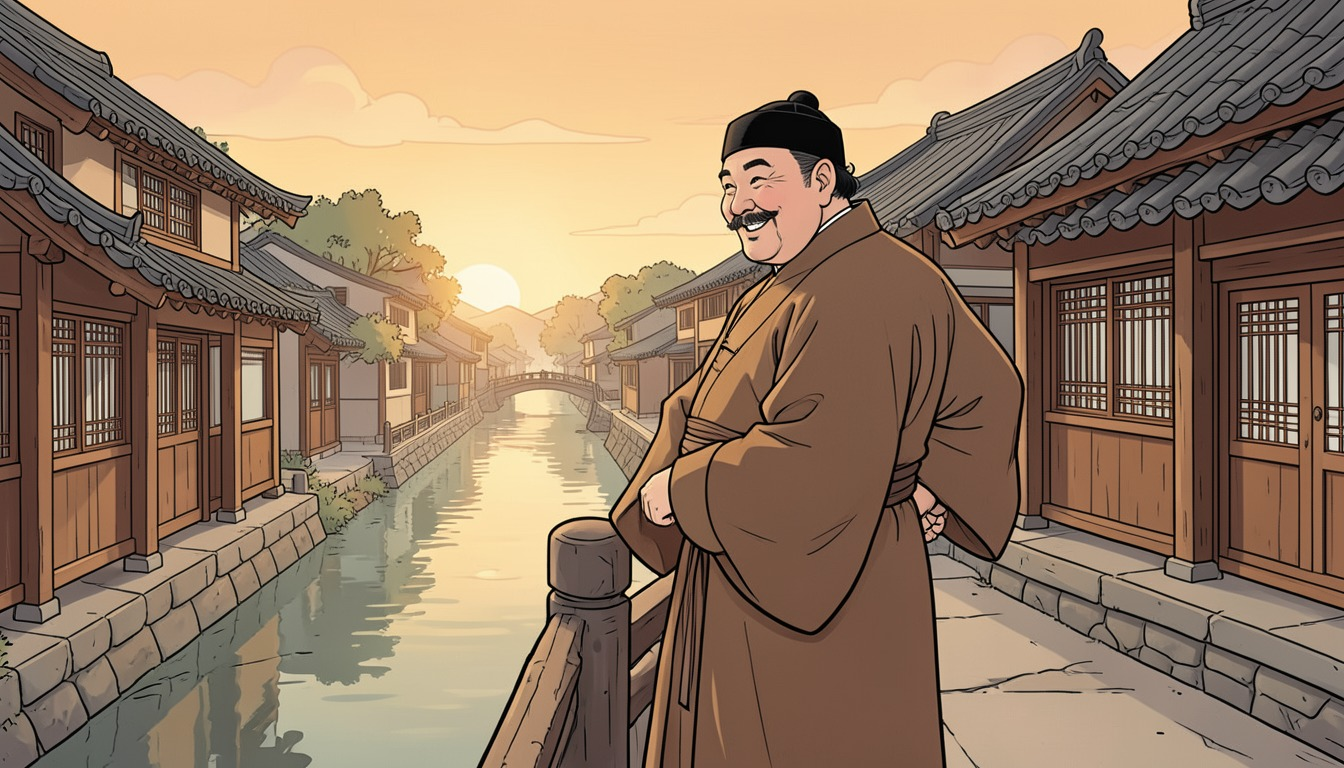
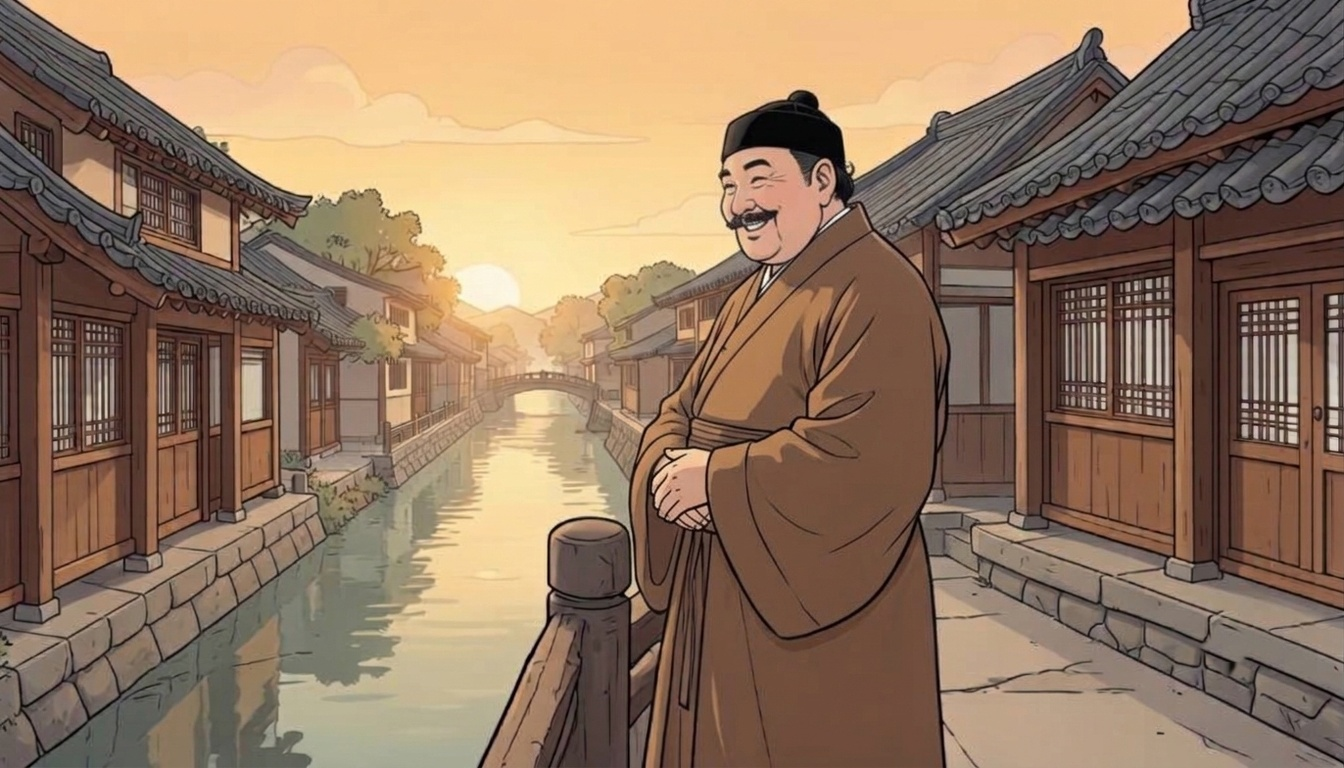
TQ10: thay ảnh 048 (bản chủ kênh sửa), chỉnh prompt Veo 048 [skip ci]
Claude-Session: https://claude.ai/code/session_01H1Wbxj9sAcUYRQ6Wju6xqR

diff --git a/ke-hoach/luu-bi-thua-nhieu-kich-ban.md b/ke-hoach/luu-bi-thua-nhieu-kich-ban.md
@@ -1,0 +1,183 @@
+# Lưu Bị thua nhiều hơn thắng, vì sao vẫn có người trao cả nước cho ông? (video dài, bản nháp 5: gộp câu, bớt kiểu liệt kê, 03/11/2026)
+
+Bản 5 sửa từ bản 4 theo góp ý của chủ kênh 03/11: kịch bản vẫn đọc như liệt kê. 113 câu, khoảng 3.034 chữ, khoảng 17 phút. Chưa chuyển JSON, chưa đọc giọng, chưa dựng.
+Thay đổi ở bản 5:
+- Gộp các câu ngắn cùng một việc thành câu có nguyên nhân – kết quả ("thứ sử Đào Khiêm không đủ sức chống đỡ, nên Lưu Bị mang quân đến cứu"; "ông gói lại vàng bạc, treo ấn tín lên, viết thư từ biệt, rồi lên đường"). Từ 139 xuống còn 113 câu, mỗi câu mang nhiều nội dung hơn nhưng vẫn không quá khoảng 40 chữ để giọng đọc không bị vấp.
+- Giữ các ví dụ, liên tưởng đời thường của bản 4.
+- Không đổi sự kiện, không thêm lời thoại hay suy nghĩ của nhân vật.
+
+Các ghi chú dưới đây của bản 3 vẫn còn hiệu lực.
+Thay đổi so với bản 2, nhằm bỏ nhịp "mỗi câu một thông tin":
+- Nối các ý bằng quan hệ nguyên nhân – kết quả và đối lập ("Nhưng ông chưa kịp ngồi vững thì đã có một vị khách đến gõ cửa", "Một bên chậm như đàn kiến, bên kia nhanh như gió").
+- Đan câu dài và câu ngắn trong cùng một cảnh; câu ngắn dùng làm điểm nhấn ở bước ngoặt.
+- Tạo sức ép bằng con số có trong sử (đoàn dân hơn mười vạn người đi vài cây số mỗi ngày, kỵ binh Tào đuổi hơn một trăm cây số một ngày một đêm) thay vì liệt kê sự kiện.
+- Lời bình [BÌNH] ngắn, mỗi lời đều đẩy sang cảnh sau hoặc chốt hệ quả, bỏ các câu bình chung chung.
+- Không đổi sự kiện, không bịa lời thoại hay suy nghĩ.
+Mỗi dòng: `số câu. [nhãn · sắc thái] lời kể`. Sắc thái: L = nhẹ, C = nghiêm hơn.
+
+Nhãn: [SỬ] đã đọc nguyên văn; [SỬ*] theo bài tổng hợp/trí nhớ là có trong chính sử, CHƯA đọc nguyên văn; [CG] chỉ có ở chú giải; [BÌNH] lời bình/câu nối của kênh.
+
+## TRẠNG THÁI KIỂM CHỨNG (02/11/2026)
+- Chưa có câu nào là [SỬ]. Nguồn: một bài tổng hợp và trí nhớ.
+- Phải đối chiếu nguyên văn trước khi đọc giọng: Tiên chủ truyện, Gia Cát Lượng truyện (lời dặn ở Bạch Đế, "ba phen đến mới gặp", Từ Thứ khuyên tự đến), Quan Vũ truyện, Trương Phi truyện (quát ở cầu), Triệu Vân truyện.
+- Điểm mới cần kiểm: kỵ binh Tào đuổi hơn ba trăm dặm một ngày một đêm (đã đổi sang hơn một trăm cây số, cần xác nhận cách quy đổi), đoàn dân đi mỗi ngày hơn mười dặm (đã đổi sang vài cây số).
+- Điểm dễ sai khác: Hạ Bì mất do bất hòa trong thành; Lữ Bố trả lại vợ con; Tào Tháo cho Lưu Bị "cùng xe, ngồi cùng chiếu"; tuổi mất; Lục Tốn đốt doanh trại mùa hè.
+
+## Chi tiết đã bỏ khỏi lời kể
+- Kết nghĩa vườn đào, Quan Vũ chém sáu tướng, ném A Đẩu (tiểu thuyết); đánh quan đốc bưu (chú giải).
+- "Uống rượu luận anh hùng, rơi đũa": cần kiểm nguyên văn Tiên chủ truyện; nếu có thì đưa vào chương 4.
+
+## Ghi chú để chủ kênh duyệt
+1. Tiêu đề đề xuất: "Lưu Bị thua nhiều hơn thắng, vì sao vẫn có người trao cả nước cho ông?".
+2. Lời bình [BÌNH] là của kênh, không phải của sử gia có tên; chủ kênh quyết giữ hay đổi.
+3. Nếu vẫn thấy "từng câu", chỗ nên thử tiếp: thêm một cảnh dài kể liền (ví dụ Quan Vũ rời Tào Tháo, khoảng mười câu) theo kiểu một đoạn không ngắt.
+
+## Chương 1. Một lời dặn khó tin
+
+1. [SỬ* · C] Hãy tưởng tượng một căn phòng trong thành Bạch Đế, bên bờ sông Trường Giang, vào mùa xuân năm hai trăm hai mươi ba.
+2. [SỬ* · C] Trên giường là một ông già ngoài sáu mươi tuổi, đang sắp chết. Ông là hoàng đế của cả một nước, nhưng chỉ một năm trước, ông đã thua một trận lớn, gần như mất sạch quân đội.
+3. [SỬ* · C] Ông cho gọi thừa tướng Gia Cát Lượng đến bên giường, rồi nói một câu mà rất ít ông vua dám nói.
+4. [SỬ* · C] Ông bảo rằng tài của Gia Cát Lượng hơn Tào Phi gấp mười lần. Nếu con ta giúp được thì giúp. Nếu nó không ra gì, ông cứ lấy ngôi mà làm.
+5. [SỬ* · C] Gia Cát Lượng bật khóc, và thề sẽ dốc hết sức phò con của vị vua này, cho đến chết mới thôi.
+6. [BÌNH · C] Một ông vua đặt cả nước vào tay một người, thậm chí cho phép người ấy lấy luôn. Còn người ấy thì thề sẽ không bao giờ làm. Chuyện này không thể có, nếu hai người chỉ là vua và tôi.
+7. [BÌNH · C] Vậy giữa họ đã xảy ra những gì? Và vì sao một người thua nhiều như Lưu Bị lại được tin đến thế?
+8. [BÌNH · L] Muốn biết, ta phải quay về từ lúc ông còn đang bán giày.
+
+## Chương 2. Người không có gì để trả cho ai
+
+9. [SỬ* · C] Lưu Bị sinh ở huyện Trác, vùng phía bắc sông Hoàng Hà. Nhà ông tự nhận là họ hàng xa của vua Hán, nhưng cha mất sớm, nên hai mẹ con sống bằng nghề bán giày và dệt chiếu.
+10. [SỬ* · C] Ông không có đất, không có tiền, không có gì để trả công cho ai. Vậy mà ngay từ khi còn trẻ, đã có những người trẻ khác tìm đến đi theo ông.
+11. [BÌNH · C] Giống như một người mở quán không vốn, không bàn ghế, mà ngày nào cũng có người ngồi chờ ở cửa. Vì sao?
+12. [SỬ* · C] Sử chép ông ít nói, hiền hòa, vui buồn không lộ ra mặt, nhưng thích kết bạn với những người có chí lớn. Trong số ấy có hai người ở lại suốt đời, là Quan Vũ và Trương Phi.
+13. [SỬ* · C] Ba người ngủ chung một giường, thân như anh em ruột. Mỗi khi Lưu Bị ngồi họp, hai người đứng hầu bên cạnh suốt cả ngày mà không hề than phiền.
+14. [BÌNH · C] Đứng cả ngày bên một người chưa có chức quyền gì. Đó không phải chuyện làm công ăn lương.
+15. [SỬ* · C] Rồi quân Khăn Vàng nổi dậy khắp nơi. Ba người mang theo ít quân ra trận và lập công, nhưng phần thưởng của Lưu Bị chỉ là một chức quan nhỏ ở huyện An Hỷ.
+16. [BÌNH · C] Hơn hai mươi tuổi, ông mới chỉ là một viên quan huyện. Và chưa có gì bảo đảm hai người em kia sẽ đi cùng ông đến cuối.
+
+## Chương 3. Cái thành bỏ lại phía sau
+
+17. [SỬ* · C] Gần mười năm sau, cơ hội đến từ một nơi đang cháy. Tào Tháo mang quân đánh Từ Châu, thứ sử Đào Khiêm không đủ sức chống đỡ, nên Lưu Bị mang quân đến cứu.
+18. [SỬ* · C] Khi Đào Khiêm sắp mất, ông dặn rằng chỉ Lưu Bị mới giữ được Từ Châu. Lưu Bị từ chối. Mãi đến khi nhiều người trong vùng cùng khuyên, ông mới nhận.
+19. [BÌNH · C] Lần đầu tiên trong đời, người bán giày ngày nào được trao cả một châu. Nhưng ông chưa kịp ngồi vững thì đã có người đến gõ cửa.
+20. [SỬ* · C] Đó là Lữ Bố, người được coi là mạnh nhất thiên hạ lúc bấy giờ. Ông ta vừa thua một trận lớn, quân tan, đất mất, không còn chỗ nào để đi, nên đến xin Lưu Bị cho ở nhờ.
+21. [SỬ* · C] Lưu Bị không đuổi đi. Ông mở cổng, nhận Lữ Bố vào.
+22. [BÌNH · C] Hãy hình dung một người bị cả xóm xua đuổi, đứng gõ cửa nhà bạn giữa đêm. Bạn có mở cửa không?
+23. [SỬ* · C] Đầu năm một trăm chín mươi sáu, Lưu Bị mang quân ra ngoài đánh Viên Thuật và để lại thành Hạ Bì cho người giữ. Nhưng những người ở lại trong thành bất hòa với nhau.
+24. [SỬ* · C] Lữ Bố chờ đúng lúc ấy. Ông ta đánh úp, chiếm cả Hạ Bì, và vợ con của Lưu Bị đang ở trong thành cũng rơi vào tay ông ta.
+25. [BÌNH · C] Lưu Bị đứng ngoài thành, quân ở bên mình, còn ngôi nhà thì đã đổi chủ. Và chủ mới chính là người ông vừa cho ăn cơm. Giống như bạn cho người lạ ngủ nhờ, sáng ra thấy họ đã thay khóa nhà.
+26. [SỬ* · C] Mất đất, lại có gia đình nằm trong tay kẻ khác, Lưu Bị đành xin hàng. Lữ Bố trả vợ con lại cho ông.
+27. [BÌNH · C] Ông giữ được người, nhưng mất cả một châu. Và đó mới chỉ là lần mất đầu tiên.
+
+## Chương 4. Kẻ thù cho ngồi chung chiếu
+
+28. [SỬ* · C] Lữ Bố vẫn chưa chịu dừng. Ông ta tiếp tục đánh Lưu Bị, đến mức ông không còn nơi nào trong vùng để nương thân.
+29. [SỬ* · C] Chỉ còn một người đủ sức giúp ông, và người ấy lại chính là Tào Tháo, kẻ trước đó vừa mang quân đánh Từ Châu.
+30. [SỬ* · C] Tào Tháo không những nhận ông mà còn đối đãi rất hậu. Hai người đi cùng xe, ngồi cùng chiếu.
+31. [SỬ* · C] Rồi họ cùng đánh Lữ Bố ở Hạ Bì. Lữ Bố bị bắt và bị xử chết, kẻ đã cướp thành của Lưu Bị cuối cùng cũng phải trả giá.
+32. [BÌNH · C] Kẻ thù cũ thành bạn, kẻ phản bội đã bị trừ. Lưu Bị có thể tưởng mình đã yên thân. Nhưng ở cạnh một người quá mạnh, không ai ngồi yên được lâu.
+33. [SỬ* · C] Tào Tháo đưa ông về kinh đô và cho chức tướng quân. Ông được trọng dụng, nhưng cũng bị theo dõi sát, mọi bước đi đều nằm trong tầm mắt người khác.
+34. [SỬ* · C] Rồi có dịp ra ngoài đánh Viên Thuật, ông xin đi. Một người trong phe Tào Tháo cảnh báo rằng thả ông ra là thả hổ về rừng.
+35. [SỬ* · C] Lời cảnh báo ấy đúng. Lưu Bị đến Từ Châu thì giết thứ sử do Tào Tháo cử, rồi chiếm lại vùng đất cũ.
+36. [BÌNH · C] Đây là lần đầu tiên ông làm trái ý người đã giúp mình. Và cái giá của nó đến rất nhanh.
+
+## Chương 5. Người không chịu ở lại
+
+37. [SỬ* · C] Đầu năm hai trăm, Tào Tháo tự mình dẫn quân đến. Lưu Bị thua nhanh đến mức phải bỏ thành mà chạy, để lại cả vợ con.
+38. [SỬ* · C] Ông chạy sang nương nhờ Viên Thiệu, còn Quan Vũ ở lại trong thành thì bị bắt sống.
+39. [SỬ* · C] Tào Tháo rất quý Quan Vũ. Ông phong chức, ban thưởng rất hậu, và hy vọng giữ được người này.
+40. [SỬ* · C] Trong một trận đánh, Quan Vũ giết được Nhan Lương, tướng của Viên Thiệu, khiến Tào Tháo càng thêm quý trọng.
+41. [SỬ* · C] Nhưng rồi Quan Vũ biết tin Lưu Bị đang ở phía Viên Thiệu. Ông gói lại tất cả vàng bạc được thưởng, treo ấn tín lên, viết một lá thư từ biệt, rồi lên đường đi tìm Lưu Bị.
+42. [SỬ* · C] Các tướng của Tào Tháo muốn đuổi theo. Tào Tháo ngăn lại, nói rằng ai cũng vì chủ của mình, đừng đuổi.
+43. [BÌNH · C] Một người đang giàu sang ở phe mạnh hơn lại bỏ hết để quay về với người đang trắng tay. Không thể dùng tiền hay chức tước để giải thích điều đó.
+44. [BÌNH · C] Hãy nghĩ đến một nhân viên đang được công ty lớn trả lương rất cao mà xin nghỉ để quay về làm với ông chủ cũ vừa phá sản. Người ta sẽ hỏi: anh ta thấy gì ở ông chủ ấy?
+45. [SỬ* · C] Sau đó, Viên Thiệu thua Tào Tháo ở Quan Độ, và Lưu Bị lại phải đi tìm nơi nương tựa. Lần này là Lưu Biểu ở Kinh Châu.
+46. [SỬ* · C] Ông đóng quân ở Tân Dã, một thành nhỏ. Lưu Biểu vừa dùng ông để chống Tào Tháo, vừa đề phòng ông.
+47. [BÌNH · C] Đã gần bốn mươi tuổi, ông mất đất nhiều lần và vẫn chưa có nơi nào thật sự là nhà. Ông cần một thứ khác, không phải thêm một chủ nhân.
+
+## Chương 6. Ba lần đến lều cỏ
+
+48. [SỬ* · C] Thứ ông cần là một kế hoạch. Theo lời Từ Thứ, người có kế hoạch ấy đang sống ẩn ở Long Trung, một chàng trai tên là Gia Cát Lượng.
+49. [SỬ* · C] Từ Thứ khuyên ông tự đến tìm, đừng gọi người ấy đến, và Lưu Bị làm đúng như vậy. Ông đến một lần, hai lần, và phải đến lần thứ ba mới gặp được.
+50. [SỬ* · C] Chính Gia Cát Lượng sau này tự viết lại rằng Lưu Bị đã ba lần đến lều cỏ của mình để hỏi việc đời.
+51. [BÌNH · C] Hãy nghĩ về hình ảnh này. Một người bốn mươi sáu tuổi, đã có danh tiếng, ba lần đi bộ đến cửa nhà một chàng trai hai mươi sáu tuổi.
+52. [SỬ* · C] Gia Cát Lượng đưa ra một kế hoạch. Trước hết chiếm Kinh Châu và Ích Châu, rồi liên minh với Đông Ngô ở phía đông. Khi thời cơ đến, hai đạo quân cùng tiến lên phía bắc để đánh Tào Tháo.
+53. [SỬ* · C] Quan Vũ và Trương Phi lúc đầu không vui, vì thấy anh mình quá coi trọng một người trẻ. Lưu Bị nói rằng ông có Gia Cát Lượng như cá có nước, và xin hai người đừng nói nữa.
+54. [SỬ* · C] Hai người nghe theo, và không nhắc lại chuyện ấy.
+55. [BÌNH · C] Hai người từng đứng hầu ông cả ngày có thể giận. Nhưng họ vẫn chọn tin ông, dù không hiểu hết. Và ông sắp cần đúng sự tin ấy.
+
+## Chương 7. Mười vạn người đi chậm
+
+56. [SỬ* · C] Kế hoạch mới bắt đầu thì Lưu Biểu qua đời. Tào Tháo thấy cơ hội và mang đại quân đánh thẳng xuống Kinh Châu.
+57. [SỬ* · C] Con trai Lưu Biểu đầu hàng ngay. Lưu Bị đang ở Phàn Thành, nghe tin thì quân Tào đã đến rất gần.
+58. [SỬ* · C] Ông phải rút đi, và dân Kinh Châu kéo theo ông, đông đến hơn mười vạn người. Họ mang theo hàng nghìn chiếc xe, nên mỗi ngày đoàn người chỉ đi được vài cây số.
+59. [BÌNH · C] Hãy hình dung cả một thành phố dọn nhà cùng lúc trên một con đường hẹp.
+60. [SỬ* · C] Trong khi đó, kỵ binh tinh nhuệ của Tào Tháo đuổi theo một ngày một đêm, đi hơn một trăm cây số.
+61. [BÌNH · C] Một bên chậm như đàn kiến, bên kia nhanh như gió. Chỉ cần tính sơ cũng biết ai sẽ đuổi kịp ai, và đuổi kịp lúc nào.
+62. [SỬ* · C] Có người khuyên ông bỏ dân lại, đi trước cho nhanh. Đó là cách duy nhất để chắc chắn thoát thân.
+63. [SỬ* · C] Ông trả lời rằng muốn làm việc lớn thì phải lấy người làm gốc. Nay dân theo ta, sao nỡ bỏ họ.
+64. [SỬ* · C] Ông chọn đi chậm cùng họ, và quân Tào đuổi kịp ở Trường Bản. Lưu Bị thua nặng, bỏ cả vợ con, chạy cùng vài chục kỵ binh.
+65. [SỬ* · C] Giữa vòng vây, Triệu Vân ôm đứa con nhỏ của ông là Lưu Thiện, bảo vệ Cam phu nhân, rồi mở đường thoát ra.
+66. [SỬ* · C] Còn Trương Phi dẫn vài chục kỵ binh đứng chặn ở cầu. Ông trợn mắt, cầm giáo, quát rằng Trương Dực Đức ở đây, ai dám đến quyết tử.
+67. [SỬ* · C] Không một người nào trong quân Tào dám tiến lên, nhờ vậy cả đoàn Lưu Bị thoát được.
+68. [BÌNH · C] Ông thua một trận lớn. Nhưng người thân cận không ai bỏ ông, và dân vẫn tin ông, kể cả khi ông chẳng còn gì để hứa.
+
+## Chương 8. Mượn gió, rồi mượn đất
+
+69. [SỬ* · C] Lưu Bị rút về phía nam, rồi cử Gia Cát Lượng sang Đông Ngô gặp Tôn Quyền. Đó là bước đầu của liên minh mà ông từng bàn ở lều cỏ.
+70. [SỬ* · C] Gia Cát Lượng thuyết phục được Tôn Quyền cùng đánh Tào Tháo, còn Chu Du thì chỉ huy quân Ngô.
+71. [SỬ* · C] Cuối năm hai trăm linh tám, liên quân hai bên đánh bại Tào Tháo ngay trên sông Trường Giang. Đó là trận Xích Bích.
+72. [BÌNH · C] Một lực lượng nhỏ, đứng cạnh một bên mạnh hơn, đã thắng một đối thủ lớn gấp nhiều lần, đúng như kế hoạch ở lều cỏ. Giống như hai đội bóng nhỏ bắt tay nhau để hạ đội mạnh nhất giải.
+73. [SỬ* · C] Sau trận ấy, Lưu Bị chiếm bốn quận phía nam sông Trường Giang. Lần đầu tiên, ông có một vùng đất đủ rộng để đứng vững.
+74. [SỬ* · C] Tôn Quyền còn gả em gái cho ông, và cho ông đóng quân ở Kinh Châu.
+75. [BÌNH · L] Nhưng đất mượn thì sớm muộn cũng phải trả. Cũng như ở nhà thuê: chủ nhà đòi lúc nào là phải dọn đi lúc đó. Hãy nhớ điều này, vì nó sẽ quay lại rất đau.
+
+## Chương 9. Cánh cửa của Lưu Chương
+
+76. [SỬ* · C] Kế hoạch còn nửa còn lại. Ích Châu, vùng đất giàu có phía tây, vẫn chưa nằm trong tay ông.
+77. [SỬ* · C] Cơ hội đến từ chính người cai quản nơi ấy. Lưu Chương mời Lưu Bị mang quân vào giúp chống Trương Lỗ ở phía bắc.
+78. [SỬ* · C] Lưu Bị đưa quân vào, cùng đi có Bàng Thống. Nhưng không lâu sau, hai bên trở mặt rồi đánh nhau.
+79. [SỬ* · C] Bàng Thống tử trận khi đánh thành Lạc. Sau nhiều tháng giao tranh, Lưu Bị tiến đến Thành Đô, và Lưu Chương mở cửa thành đầu hàng.
+80. [BÌNH · C] Hãy nhìn lại hai chuyện. Ở Từ Châu, ông mở cửa cho Lữ Bố và mất tất cả. Ở Ích Châu, chính ông là người được mời vào nhà, rồi chiếm luôn nhà chủ.
+81. [BÌNH · C] Vì thế nhiều người cho rằng ông không công bằng. Điều ấy cũng là một phần của câu chuyện, và không nên bỏ qua.
+82. [SỬ* · C] Rồi ông đánh Tào Tháo ở Hán Trung. Tướng Hoàng Trung giết được Hạ Hầu Uyên, một tướng giỏi của quân Tào, và Tào Tháo phải rút quân.
+83. [SỬ* · C] Lưu Bị xưng là Hán Trung vương vào năm hai trăm mười chín, ở tuổi gần sáu mươi.
+84. [BÌNH · C] Ông có hai châu, có tướng giỏi, và có người phò tá. Đây là lúc cao nhất đời ông. Và nó chỉ kéo dài vài tháng.
+
+## Chương 10. Tin dữ từ Kinh Châu
+
+85. [SỬ* · C] Cùng năm ấy, ở Kinh Châu, Quan Vũ mang quân đánh lên phía bắc và bao vây thành Phàn.
+86. [SỬ* · C] Mưa lớn làm sông Hán dâng cao, nhấn chìm quân của Vu Cấm, và Quan Vũ bắt được Vu Cấm cùng rất nhiều quân lính.
+87. [SỬ* · C] Danh tiếng của Quan Vũ vang khắp nơi, đến mức Tào Tháo thậm chí phải bàn chuyện dời đô để tránh mũi nhọn của ông.
+88. [SỬ* · C] Nhưng có một người không muốn thấy Quan Vũ mạnh lên ngay sát biên giới của mình. Đó là Tôn Quyền, người từng là đồng minh của Lưu Bị.
+89. [SỬ* · C] Ông cho tướng Lữ Mông đánh úp Kinh Châu từ phía sau. Quan Vũ mất đường lui, quân mất tinh thần, và cuối năm hai trăm mười chín, Quan Vũ bị bắt và bị giết.
+90. [BÌNH · C] Lưu Bị mất Kinh Châu, và mất người em đã từng bỏ hết vàng bạc để quay về với ông. Kế hoạch hai đạo quân của Gia Cát Lượng cũng sụp đổ theo.
+91. [SỬ* · C] Rồi Tào Phi ép vua Hán nhường ngôi, và nhà Hán chấm dứt. Lưu Bị lên ngôi ở Thành Đô, lấy tên nước là Hán, để nối tiếp nhà cũ.
+92. [SỬ* · C] Ông chưa kịp vui thì tin buồn khác đã đến. Trương Phi, đang chuẩn bị đi đánh Đông Ngô, bị hai thuộc hạ giết ngay trong lúc ngủ.
+93. [BÌNH · C] Chỉ trong hai năm, ông mất cả hai người em từng ngủ chung một giường với mình.
+
+## Chương 11. Rừng lửa ở Di Lăng
+
+94. [SỬ* · C] Ông quyết định tự dẫn đại quân đánh Đông Ngô, để đáp lại việc Quan Vũ bị giết. Nhiều người trong triều không đồng tình.
+95. [SỬ* · C] Quân Thục tiến sâu vào đất Ngô. Nhưng tướng Lục Tốn lui quân, rồi cố thủ, nhất quyết không ra đánh.
+96. [SỬ* · C] Hai bên giằng co từ mùa xuân sang mùa hè. Trong rừng núi, quân Thục dựng doanh trại nối liền nhau suốt hàng chục nơi.
+97. [SỬ* · C] Giữa mùa hè khô nóng, Lục Tốn cho đốt các doanh trại ấy, và lửa lan từ trại này sang trại khác.
+98. [SỬ* · C] Quân Thục tan vỡ. Lưu Bị chạy về thành Bạch Đế, mất gần hết quân và rất nhiều tướng giỏi.
+99. [BÌNH · C] Đây là canh bạc lớn nhất đời ông. Ông đánh vào lúc nước còn yếu, và bỏ lại kế hoạch ban đầu của Gia Cát Lượng.
+100. [BÌNH · C] Vì sao một người từng chịu nghe lời khuyên, lần này lại không nghe? Sử không chép đủ lý do, nên ta không nên đoán thay ông.
+
+## Chương 12. Vì sao họ ở lại
+
+101. [SỬ* · C] Ông không quay về Thành Đô, mà ở lại Bạch Đế. Sang mùa xuân, ông bệnh nặng và cho gọi Gia Cát Lượng đến.
+102. [SỬ* · C] Đó chính là lời dặn mà ta đã nghe ở đầu video.
+103. [SỬ* · C] Ông còn để lại lời khuyên cho con trai Lưu Thiện. Đừng vì việc ác nhỏ mà làm, đừng vì việc thiện nhỏ mà bỏ qua. Chỉ có đức độ mới khiến người ta tin phục.
+104. [SỬ* · C] Ông mất ở tuổi ngoài sáu mươi. Gia Cát Lượng giữ đúng lời thề, suốt đời không lấy ngôi.
+105. [SỬ* · C] Trần Thọ, nhà viết sử thời sau, nhận xét rằng Lưu Bị có phong thái của Hán Cao Tổ, biết đối đãi người và giao việc cho người giỏi.
+106. [SỬ* · C] Nhưng ông cũng viết rằng về mưu lược, Lưu Bị không bằng Tào Tháo, nên đất của ông hẹp hơn.
+107. [BÌNH · C] Vậy ta trả lời câu hỏi đầu video. Vì sao một người thua nhiều như thế vẫn có người trao cả mạng sống và cả nước cho ông?
+108. [BÌNH · C] Vì ông thua rất nhiều lần, nhưng không lần nào ông bỏ người đi theo mình. Giống một thuyền trưởng gặp bão hết lần này đến lần khác, nhưng chưa lần nào bỏ thủy thủ lại. Thuyền có thể chìm, còn thủy thủ vẫn chọn ở lại.
+109. [BÌNH · C] Quan Vũ bỏ vàng bạc để quay về. Dân Kinh Châu đi chậm cùng ông. Triệu Vân ôm con ông qua vòng vây.
+110. [BÌNH · C] Ông cũng biết hạ mình. Ba lần đến lều cỏ, và chịu nghe người trẻ hơn mình hai mươi tuổi.
+111. [BÌNH · C] Nhưng cũng chính ông mất Từ Châu vì tin nhầm người, và mất gần hết quân ở Di Lăng vì quyết định một mình.
+112. [BÌNH · C] Những việc vừa kể có trong sử. Còn chuyện kết nghĩa vườn đào, hay Quan Vũ chém sáu tướng qua năm ải, thì chỉ có trong tiểu thuyết.
+113. [BÌNH · C] Theo bạn, điều gì khiến người ta ở lại với một người liên tục thua, một lời hứa lớn, hay cách người ấy đối xử với họ?
+

diff --git a/ke-hoach/vi-sao-ghet-tao-thao-veo.md b/ke-hoach/vi-sao-ghet-tao-thao-veo.md
@@ -32,7 +32,7 @@ Chọn "Frames to Video", tải ảnh `assets/anh_2d/TQ10/NNN.jpg` làm khung đ
 | 036 | 36 | Người áo dài đi khuất dần trên con đường đất ướt, nhà đổ ở xa | The man walks away from the camera with a heavy, slow-footed stride, shoulders sagging, robe hem swinging; he steps through a puddle and rings spread, pauses for one beat to glance at the ruined building in the haze, then walks on. Mist rolls between the rooftops. Camera follows behind at his pace. |
 | 038 | 38 | Người lữ khách đeo bó thẻ tre sau lưng đi giữa phố núi lúc chạng vạng | The traveller strides toward the camera with a steady, determined walk, the bundle on his back bouncing slightly with each step, sandals kicking up dust, sleeves swaying; he adjusts the strap with one hand and keeps going. Dusk mist rolls down from the mountains behind him. Camera backs away smoothly. |
 | 045 | 45 | Người áo đen đi trên lối giữa dãy nhà, hai đứa trẻ đi hai bên | The man and the two children walk toward the camera in step; the child on the left tugs his sleeve and points to the sky, the man bends his head to listen and nods, the child on the right skips one step ahead. Bamboo and pine boughs sway, a bird flies across, camera tracks sideways with them. |
-| 048 | 48 | Người béo cười, áo nâu, đứng bên lan can cầu, kênh và hoàng hôn | 0-3s: the smiling man leans on the railing and takes a deep breath of the evening air, chest rising. 3-6s: he lifts one hand to stroke his moustache and gives a pleased nod toward the sunset. 6-8s: he laughs softly, shoulders shaking. Golden light ripples on the canal, his broad sleeve and sash stir in the breeze; camera drifts gently left. |
+| 048 | 48 | Người béo cười áo nâu, hai tay chắp trước bụng, đứng bên lan can cầu, kênh và hoàng hôn | 0-3s: the smiling man at the railing rocks gently on his heels, hands clasped in front of him, and breathes in the evening air, chest rising. 3-6s: he turns his head toward the sunset and gives a pleased nod. 6-8s: he chuckles, shoulders shaking, and glances along the canal. Golden light ripples on the water, his broad sleeve and sash stir in the breeze; camera drifts gently left. |
 | 050 | 50 | Ông già áo nâu đi ngược lưng về phía xa dọc bờ kênh | The old man walks away from the camera with the small deliberate steps of age, one hand resting behind his back, robe swinging; he pauses a beat and tilts his head toward the water, then walks on. Canal water ripples, tree leaves flutter, shifting light slides along the stone embankment. Camera follows behind. |
 | 051 | 51 | Hai cậu bé áo xám chĩa gậy vào nhau (đấu giả), một cậu áo vàng nâu bên trái cầm gậy lao tới, bốn đứa nhỏ đứng xem bên phải | The two boys in grey clash their wooden sticks in a mock duel with no contact on their bodies: stick taps stick, the left boy lunges and the right boy skips back, then they swap sides and circle each other, scowling playfully. The boy at the far left stamps forward with his stick raised, and the four small onlookers on the right flinch, gasp and bounce on their toes. Dust puffs at their feet; camera drifts sideways. |
 | 052 | 52 | Người kể chuyện dang hai tay trước quán gỗ sáng đèn | 0-3s: the storyteller throws both arms wide, chest out, mouth open in a bellow. 3-6s: he sweeps both arms in with a dramatic flourish, then crouches slightly and leans toward the audience as if sharing a secret. 6-8s: he straightens up and spreads one hand to the side. Long sleeves swing, warm light flickers through the lattice windows; camera pushes in. |
